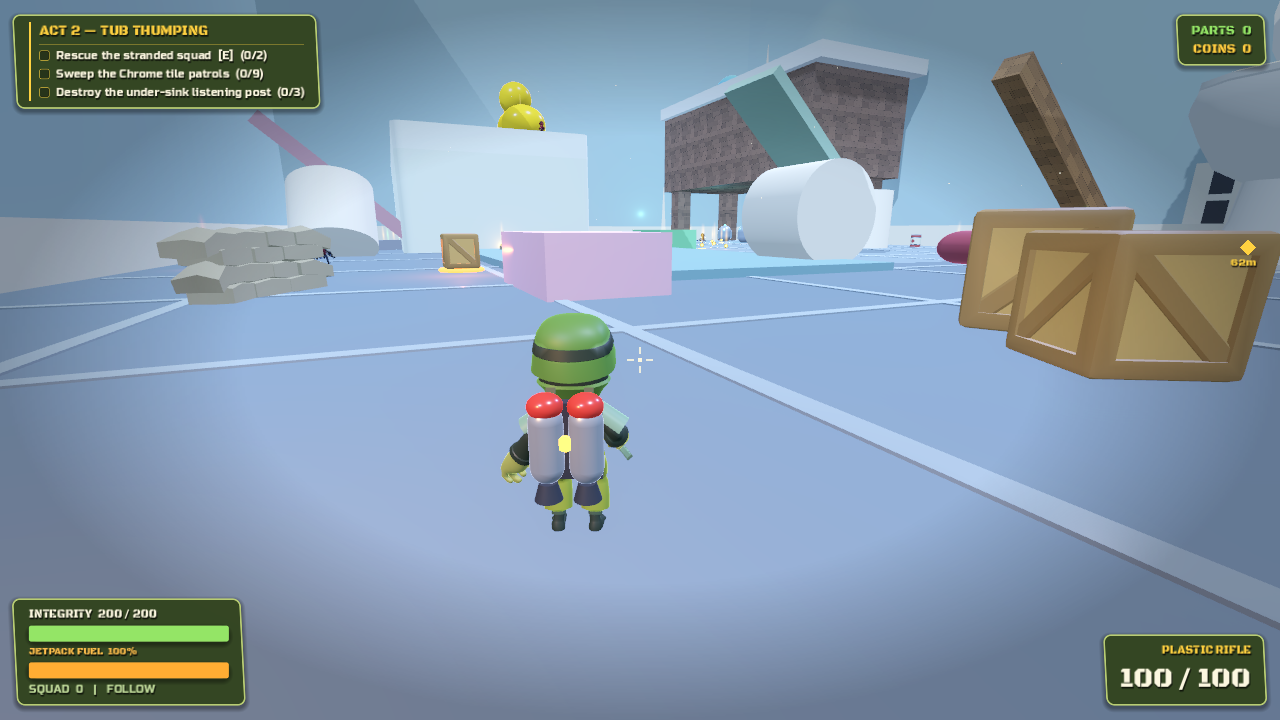
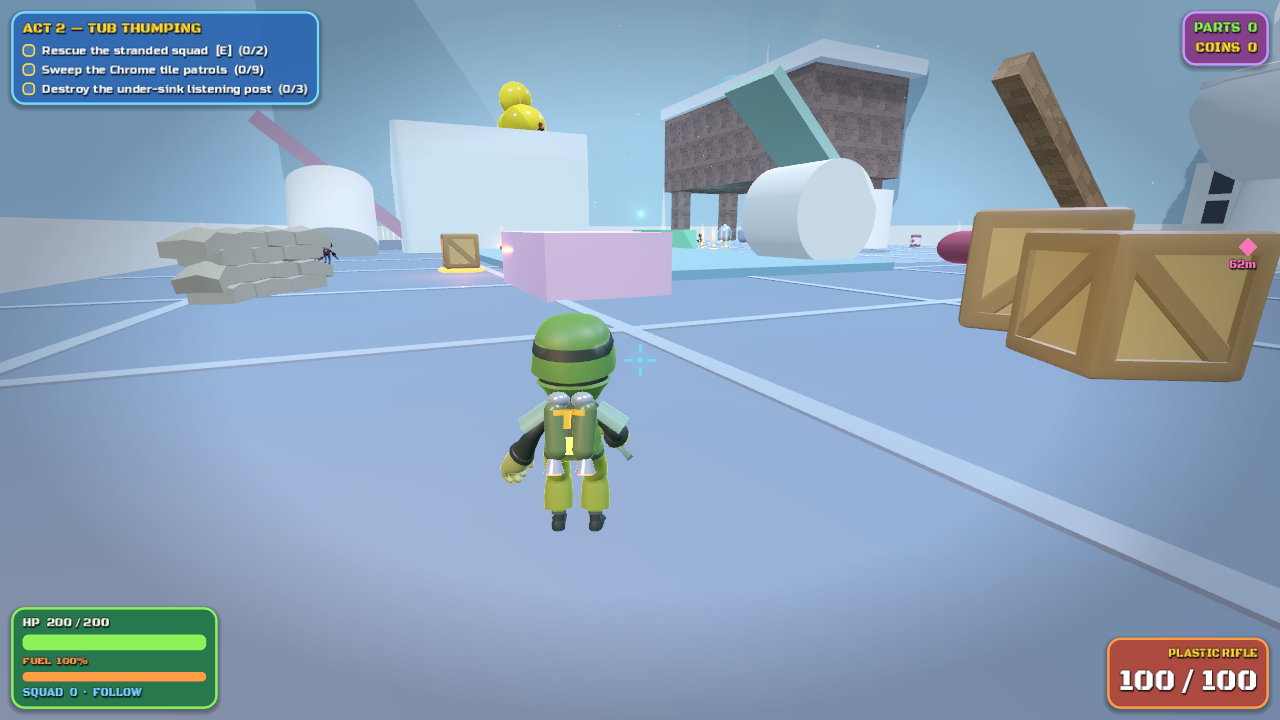
Toy-box HUD overhaul + hot crosshair on enemies

diff --git a/web/index.html b/web/index.html
@@ -97,7 +97,7 @@ body {
 
 		<script src="index.js"></script>
 		<script>
-const GODOT_CONFIG = {"args":[],"canvasResizePolicy":2,"ensureCrossOriginIsolationHeaders":true,"executable":"index","experimentalVK":false,"fileSizes":{"index.pck":12724688,"index.wasm":35376909},"focusCanvas":true,"gdextensionLibs":[]};
+const GODOT_CONFIG = {"args":[],"canvasResizePolicy":2,"ensureCrossOriginIsolationHeaders":true,"executable":"index","experimentalVK":false,"fileSizes":{"index.pck":12716032,"index.wasm":35376909},"focusCanvas":true,"gdextensionLibs":[]};
 const GODOT_THREADS_ENABLED = false;
 const engine = new Engine(GODOT_CONFIG);
 